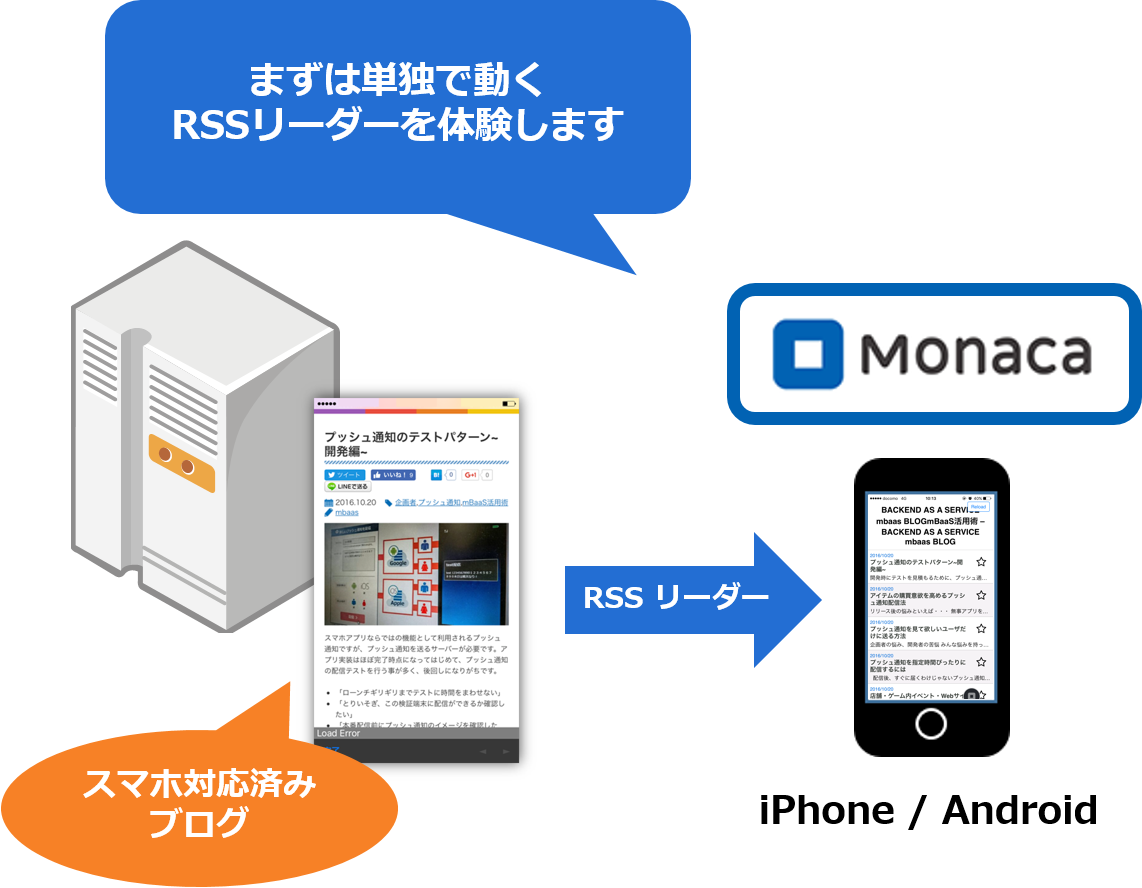
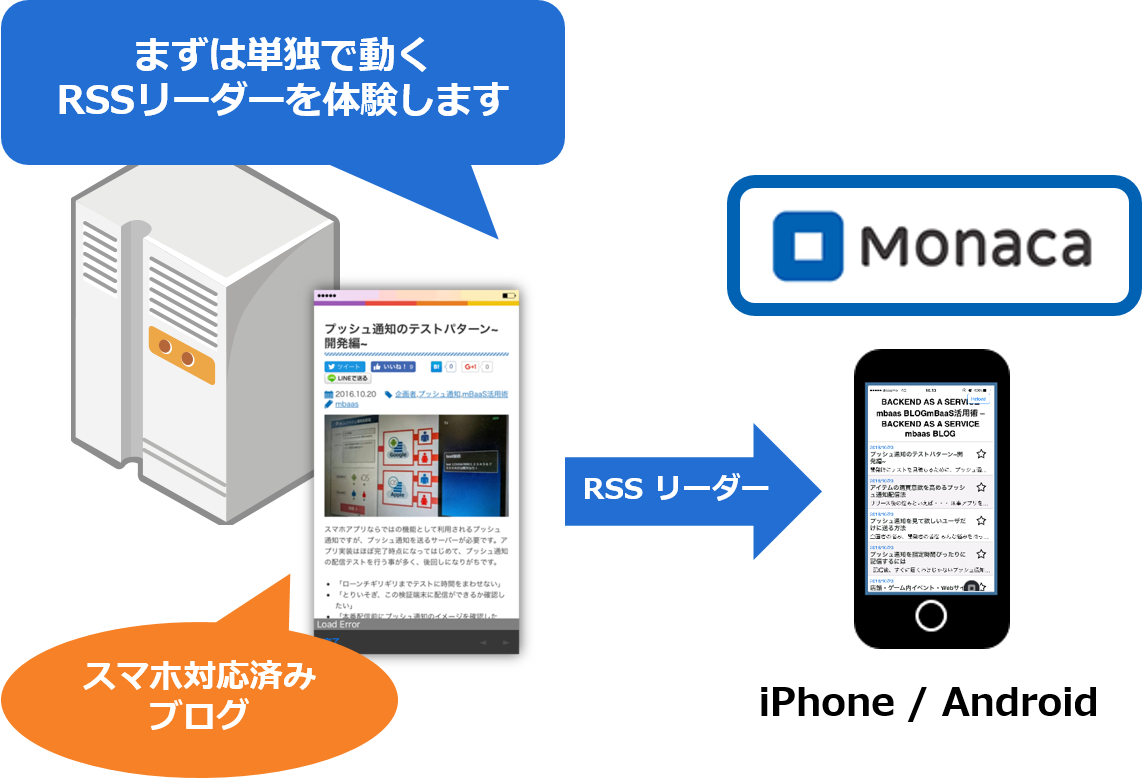
update README & images
・誤字脱字修正
・画像バランス修正

diff --git a/README.md b/README.md
@@ -29,6 +29,7 @@ Monacaとニフティクラウド mobile backendを使うことで、**既存の
 
 ### Monaca と mBaaS でサーバー連携アプリは簡単に実現可能に
 この２つを組み合わせると、高度なアプリも簡単スピーディーに開発できます
+
 ![Monaca×mBaaS](/readme-img/Monaca×mBaaS.png)
 
 #### アプリ側：Monaca のすごいところ
@@ -70,9 +71,10 @@ Monacaとニフティクラウド mobile backendを使うことで、**既存の
 https://ja.monaca.io/
 
 * プロジェクトをインポートします
- * 今回は「アプリとサーバーの連携以外の処理」に関しては実装したプロジェクトを用意しました。アプリとサーバー間の連携部分のコーディングを体験していただけます。
+ * 今回はmBaaSとの連携部分以外の処理に関しては、既に実装済みのプロジェクトを用意しました。アプリとサーバー間の連携部分のコーディングを体験していただけます。
 * 「Import Project」をクリックすると、「プロジェクトのインポート」画面が表示されます
-* 「プロジェクト名」を入力します　例）__Webコンテンツのスマホアプリ化__
+* 「プロジェクト名」を入力します
+ * 例）__Webコンテンツのスマホアプリ化__
 * 「インポート方法」では、「URLを指定してインポート」を選択し、次のURLを入力します
  * `https://github.com/natsumo/MonacaRssReaderApp/archive/master.zip`
 
@@ -114,7 +116,8 @@ mBaaSを導入しましょう！
 http://mb.cloud.nifty.com/
 
 * 新しいアプリを作成します
-* アプリ名は「`RSSReader`」と入力し、「新規作成」をクリックします
+* アプリ名を入力し、「新規作成」をクリックします
+ * 例）__RSSReader__
 
 ![mBaaS準備2-1](/readme-img/mBaaS準備2-1.png)
 
@@ -175,6 +178,7 @@ http://mb.cloud.nifty.com/
 ![code_API](/readme-img/code_API.png)
 
 * mBaaS のダッシュボードから、APIキー（アプリケーションキーとクライアントキー）をコピーして、それぞれ`YOUR_NCMB_APPLICATION_KEY`と`YOUR_NCMB_CLIENT_KEY`に貼り付けます
+* APIキーはmBaaSのダッシュボードで「アプリ設定」＞「基本」で確認できます
 
 ![SDKの初期化](/readme-img/SDKの初期化.png)
 
@@ -194,7 +198,7 @@ http://mb.cloud.nifty.com/
  * Windowsの場合は、「Ctrl + S」でも保存できます
  * Macの場合は、「Command + S」でも保存できます
 
-今回のセミナーでは実装が完了したものを使用しますので、作業は以上です。コードについては動作確認後に見ていきます。
+今回は実装が完了したものを使用しますので、作業は以上です。
 
 #### 4. コード解説
 実装内容を確認していきます
@@ -215,16 +219,19 @@ mBaaSのSDKを使う場合は必ず行う処理です
 ![code_3](/readme-img/code_3.png)
 
 ##### (4) お気に入り登録（保存）
-(3)で生成したオブジェクトに`.set(key, value)`で値を設定します。ここでは誰が(who)、どの記事を(where)を保存したかを記録するため、自分（端末）の`uuid`（ユニークユーザーID）と登録したい記事の`URL`を設定します。ドットチェーンで書くことができます。`.save()`で保存します。処理が成功した場合`.then`、失敗した場合`.catch`の処理が実行されます。
+(3)で生成したオブジェクトに`.set(key, value)`で値を設定します。ここでは誰が(who)、どの記事を(where)を保存したかを記録するため、自分（端末）の`uuid`（ユニークユーザーID）と登録したい記事の`URL`を設定します。`.save()`で保存します。処理が成功した場合`.then`、失敗した場合`.catch`の処理が実行されます。また、処理はドットチェーンで書くことができます。
+
 ![code_4](/readme-img/code_4.png)
 
 ##### (5) お気に入り登録解除（検索/削除）
 ☆をもう一度タップするとお気に入り登録を解除することができます。該当のデータを検索し、削除を行います。`equalTo(key, value)`で自分（端末）の`uuid`（ユニークユーザーID）と削除したい記事の`URL`に一致するデータを、`fetch()`で検索します。
 検索に成功した場合(then)に、`delete()`で削除を行っています。
+
 ![code_5](/readme-img/code_5.png)
 
 ##### (6) お気に入り登録人数表示（検索）
 各記事の登録人数を数えるには、`equalTo(key, value)`で`URL`のみを指定し、`.count()`で数えて、`.fetchAll()`で全件検索を行います。
+
 ![code_6](/readme-img/code_6.png)
 
 ##### (7) ☆に色をつける（検索）
@@ -257,6 +264,7 @@ mBaaSのSDKを使う場合は必ず行う処理です
 ![dummy_uuid](/readme-img/dummy_uuid.png)
 
 * デバッガーを見てみましょう
+* 画面右上の「Reload」ボタンをタップして画面を更新します
  * 違うユーザーがお気に入り登録した状態なので、☆の色が消えます。
 
 ![dummy_debugger](/readme-img/dummy_debugger.png)
